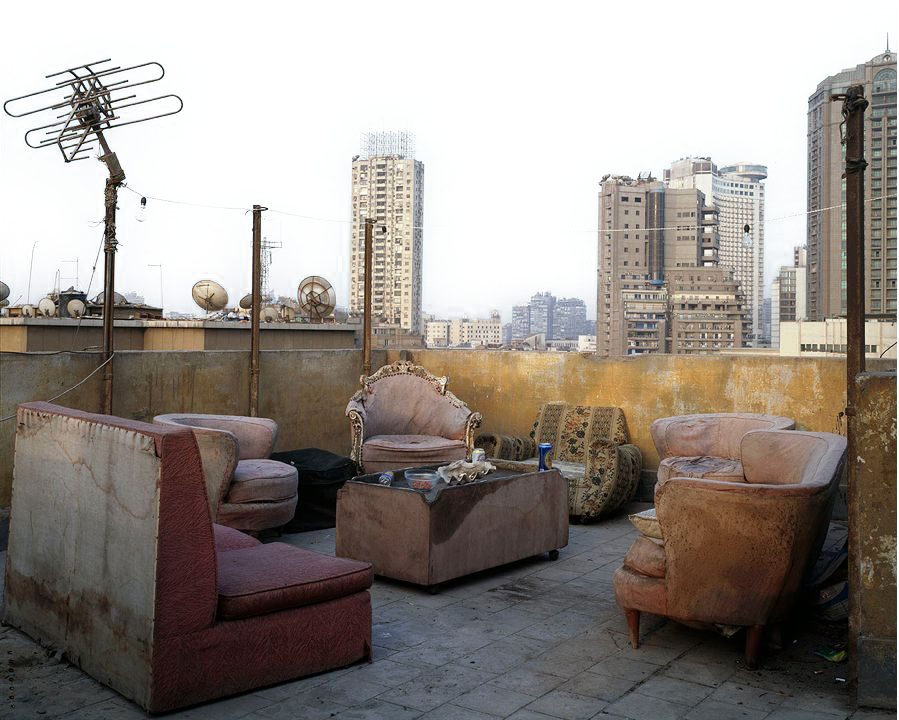
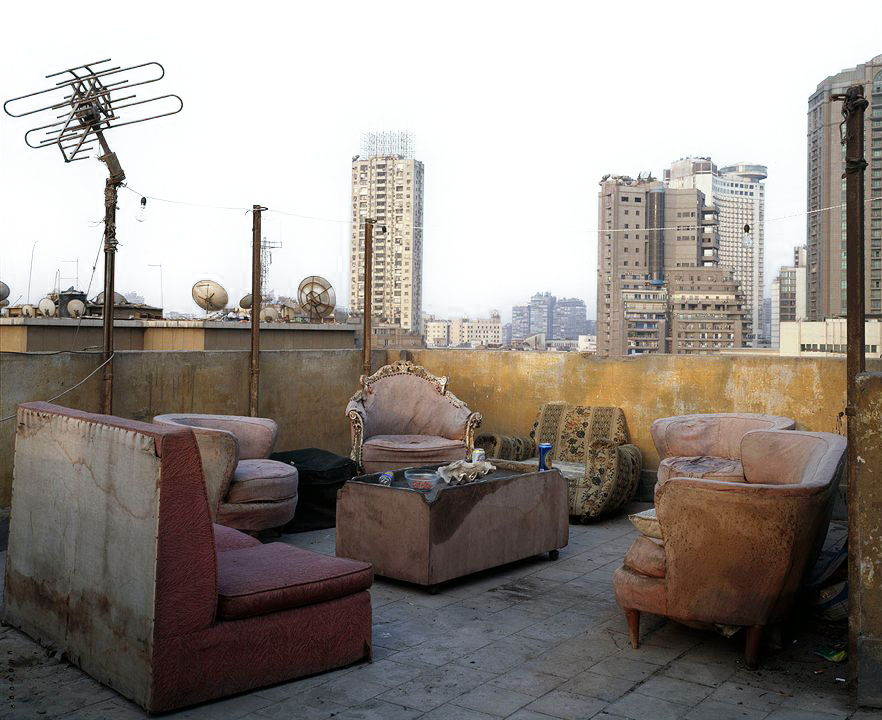
fixed controls
bg color (only works on bg color screen)
bg images have same function (only on bg image screen)

diff --git a/p5 copy/sketch.js b/p5 copy/sketch.js
@@ -1,3 +1,7 @@
+let screen = "home";
+let bgColorScreen = false;
+let bgImageScreen;
+
 let red;
 let orange;
 let yellow;
@@ -10,7 +14,6 @@ let violet;
 let purple;
 let fuscia;
 let pink;
-
 
 function preload(){
 	bgColor = loadImage('bgcolor.jpg');
@@ -54,7 +57,7 @@ function preload(){
 }
 
 function setup() {
-	createCanvas(windowWidth, windowHeight);
+	createCanvas(2940, 1380);
 	background(0);
 
 	artboardColor = color(255);
@@ -79,6 +82,8 @@ function draw() {
 }
 
 function home(){
+	screen = "home";
+	
 	background(0);
 	fill(artboardColor);
 	noStroke();
@@ -134,94 +139,141 @@ function home(){
 }
 
 function mousePressed(){
-	if (mouseX > 1370 && mouseX < 1700 && mouseY > 130 && mouseY < 180){
+	if (screen == "home"){
+
+		if (mouseX > 1370 && mouseX < 1700 && mouseY > 130 && mouseY < 180){
 		background(0);
 		backgroundColor();
-	}
-	if (mouseX > 1370 && mouseX < 1700 && mouseY > 280 && mouseY < 330){
+		}
+		if (mouseX > 1370 && mouseX < 1700 && mouseY > 280 && mouseY < 330){
 		background(0);
 		backgroundImage();
-	}
-	if (mouseX > 1370 && mouseX < 1700 && mouseY > 430 && mouseY < 480){
+		}
+		if (mouseX > 1370 && mouseX < 1700 && mouseY > 430 && mouseY < 480){
 		background(0);
 		people();
-	}
-	if (mouseX > 1370 && mouseX < 1700 && mouseY > 580 && mouseY < 630){
+		}
+		if (mouseX > 1370 && mouseX < 1700 && mouseY > 580 && mouseY < 630){
 		background(0);
 		object();
-	}
-	if (mouseX > 1370 && mouseX < 1700 && mouseY > 730 && mouseY < 780){
+		}
+		if (mouseX > 1370 && mouseX < 1700 && mouseY > 730 && mouseY < 780){
 		background(0);
 		shape();
+		}
 	}
 
-	//colors
-
-	if (mouseX > 100 && mouseX < 350 && mouseY > 150 && mouseY < 400){
+	else if(screen == "bgColor"){
+		if (mouseX > 100 && mouseX < 350 && mouseY > 150 && mouseY < 400){
 		artboardColor = red;
 		background(0);
 		home();
-	}
-	if (mouseX > 400 && mouseX < 650 && mouseY > 150 && mouseY < 400){
+		}
+		if (mouseX > 400 && mouseX < 650 && mouseY > 150 && mouseY < 400){
 		artboardColor = orange;
 		background(0);
 		home();
-	}
-	if (mouseX > 700 && mouseX < 950 && mouseY > 150 && mouseY < 400){
+		}
+		if (mouseX > 700 && mouseX < 950 && mouseY > 150 && mouseY < 400){
 		artboardColor = yellow;
 		background(0);
 		home();
-	}
-	if (mouseX > 1000 && mouseX < 1250 && mouseY > 150 && mouseY < 400){
+		}
+		if (mouseX > 1000 && mouseX < 1250 && mouseY > 150 && mouseY < 400){
 		artboardColor = green;
 		background(0);
 		home();
-	}
-	if (mouseX > 1300 && mouseX < 1550 && mouseY > 150 && mouseY < 400){
+		}
+		if (mouseX > 1300 && mouseX < 1550 && mouseY > 150 && mouseY < 400){
 		artboardColor = mint;
 		background(0);
 		home();
-	}
-	if (mouseX > 1600 && mouseX < 1850 && mouseY > 150 && mouseY < 400){
+		}
+		if (mouseX > 1600 && mouseX < 1850 && mouseY > 150 && mouseY < 400){
 		artboardColor = teal;
 		background(0);
 		home();
-	}
-	if (mouseX > 100 && mouseX < 350 && mouseY > 450 && mouseY < 700){
+		}
+		if (mouseX > 100 && mouseX < 350 && mouseY > 450 && mouseY < 700){
 		artboardColor = babyblue;
 		background(0);
 		home();
-	}
-	if (mouseX > 400 && mouseX < 650 && mouseY > 450 && mouseY < 700){
+		}
+		if (mouseX > 400 && mouseX < 650 && mouseY > 450 && mouseY < 700){
 		artboardColor = blue;
 		background(0);
 		home();
-	}
-	if (mouseX > 700 && mouseX < 950 && mouseY > 450 && mouseY < 700){
+		}
+		if (mouseX > 700 && mouseX < 950 && mouseY > 450 && mouseY < 700){
 		artboardColor = violet;
 		background(0);
 		home();
-	}
-	if (mouseX > 1000 && mouseX < 1250 && mouseY > 450 && mouseY < 700){
+		}
+		if (mouseX > 1000 && mouseX < 1250 && mouseY > 450 && mouseY < 700){
 		artboardColor = purple;
 		background(0);
 		home();
-	}
-	if (mouseX > 1300 && mouseX < 1550 && mouseY > 450 && mouseY < 700){
+		}
+		if (mouseX > 1300 && mouseX < 1550 && mouseY > 450 && mouseY < 700){
 		artboardColor = fuscia;
 		background(0);
 		home();
-	}
-	if (mouseX > 1600 && mouseX < 1850 && mouseY > 450 && mouseY < 700){
+		}
+		if (mouseX > 1600 && mouseX < 1850 && mouseY > 450 && mouseY < 700){
 		artboardColor = pink;
 		background(0);
 		home();
+		}
 	}
 
-	
+	else if(screen == "bgImage"){
+		if(mouseX > 100 && mouseX < 509 && mouseY > 150 && mouseY < 456){
+		background(0);
+		home();
+		image(safari, 100, 50, 1100, 800);
+		}
+		if(mouseX > 540 && mouseX < 949 && mouseY > 150 && mouseY < 456){
+		background(0);
+		home();
+		image(lake, 100, 100, 1100, 750);
+		}
+		if(mouseX > 1000 && mouseX < 1409 && mouseY > 150 && mouseY < 456){
+		background(0);
+		home();
+		image(garden, 100, 100, 1100, 750);
+		}
+		if(mouseX > 1500 && mouseX < 1906 && mouseY > 150 && mouseY < 456){
+		background(0);
+		home();
+		image(gov, 100, 100, 1100, 750);
+		}
+		if(mouseX > 100 && mouseX < 506 && mouseY > 650 && mouseY < 838){
+		background(0);
+		home();
+		image(boat, 100, 300, 1100, 509);
+		}
+		if(mouseX > 540 && mouseX < 946 && mouseY > 650 && mouseY < 838){
+		background(0);
+		home();
+		image(ocean, 100, 300, 1100, 509);
+		}
+		if(mouseX > 1040 && mouseX < 1407 && mouseY > 590 && mouseY < 840){
+		background(0);
+		home();
+		image(field, 100, 55, 1100, 749);
+		}
+		if(mouseX > 1500 && mouseX < 1860 && mouseY > 550 && mouseY < 838){
+		background(0);
+		home();
+		image(balcony, 100, 100, 1100, 750);
+		}
+	}
 }
+	
 
 function backgroundColor(){
+	screen = "bgColor";
+	
 	fill(255);
 	textFont('Helvetica Neue');
 	textSize(50);
@@ -275,10 +327,11 @@ function backgroundColor(){
 	fill(pink);
 	stroke(255);
 	rect(1600, 450, 250, 250);	
-	
 }
 
 function backgroundImage(){
+	screen = "bgImage";
+	
 	fill(255);
 	textFont('Helvetica Neue');
 	textSize(50);
@@ -296,6 +349,8 @@ function backgroundImage(){
 }
 
 function people(){
+	//screen == "people";
+	
 	fill(255);
 	textFont('Helvetica Neue');
 	textSize(50);
@@ -315,6 +370,8 @@ function people(){
 }
 
 function object(){
+	//screen == "object";
+	
 	fill(255);
 	textFont('Helvetica Neue');
 	textSize(50);
@@ -333,7 +390,8 @@ function object(){
 	image (usb, 1500, 550, 310, 310);
 }
 
-function shape(){
+/*function (){
+	
 	fill(255);
 	textFont('Helvetica Neue');
 	textSize(50);
@@ -345,3 +403,4 @@ function shape(){
 	image(star, 800, 140, 290, 290);
 	image (speech, )
 }
+*/
